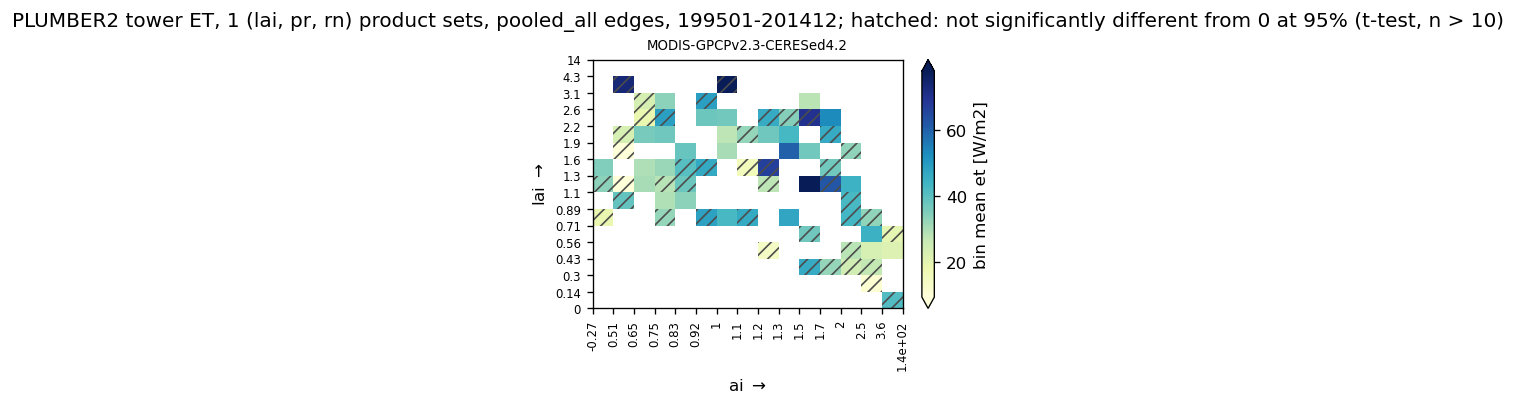
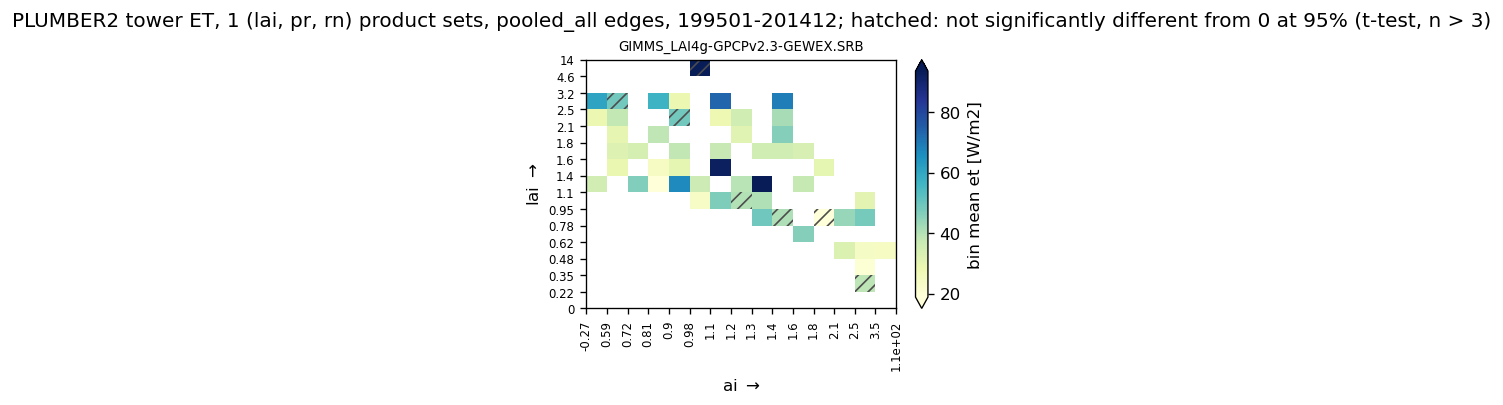
Performed binning analysis on PLUMBER2

Changed region(s): [[0.0, 0.0296, 1.0, 0.7704], [0.3673, 0.8, 0.6121, 0.8593], [0.5815, 0.8593, 0.6121, 0.8889]]

diff --git a/scripts/bin_plumber.py b/scripts/bin_plumber.py
@@ -6,9 +6,12 @@ of bin_all.py, so the towers can be compared bin by bin with the gridded
 families. Needs the obs inputs (prep_obs.py) and the edges and common area
 mask (make_edges.py).
 
-- ET: latent heat flux Qle [W/m2] of each tower's flux file. Each calendar
-  year in TIME_SLICE with every time step valid is one annual mean ET sample,
-  filtered like the gridded ET (step 6: annual ET < MIN_ANNUAL_ET dropped).
+- ET: latent heat flux Qle [W/m2] of each tower's flux file. A calendar year
+  in TIME_SLICE is complete if every time step is valid, and its annual mean
+  is filtered like the gridded ET (step 6: annual ET < MIN_ANNUAL_ET dropped).
+  Only each tower's longest run of consecutive complete years is kept, and
+  towers whose run is shorter than MIN_CONSECUTIVE_YEARS are left out; each
+  year of the run is one annual mean ET sample.
 - LAI, P, Rn, AI: the climatologies of the obs products (prep_obs.py, steps
   10-11) at the gridcell nearest to each tower (`.sel(..., method="nearest")`).
   The obs sources only differ in LAI, P and Rn by their (lai, pr, rn) product
@@ -29,10 +32,10 @@ Outputs
 <period> : YYYYMM-YYYYMM of TIME_SLICE
 
 PROC_ROOT/plumber/plumber.inputs.<grid>.<period>.nc
-    et (member, year), NaN outside a tower's complete years; lai, pr, rn, ai (lai_pr_rn, member).
+    et (member, year), NaN outside a tower's longest run of consecutive complete years; lai, pr, rn, ai (lai_pr_rn, member).
     `member` is the site name, with coords lat/lon (tower), grid_lat/grid_lon (nearest gridcell),
     n_years, time_period and in_common_area; `lai_pr_rn` has coords obs_source, <v>_product,
-    clim_n_years and clim_period
+    clim_n_years and clim_period. Also the input of bin_plumber_clim.py
 PROC_ROOT/plumber/qbin/plumber.et.qbin_<edges>.<grid>.<period>.nc
     (lai_pr_rn, stats, y_bin, x_bin), the samples of all towers pooled
 FIG_ROOT/plumber/qbin/plumber.et.qbin_<edges>.<grid>.<period>.{summary,bin_mean,bin_mean_signif}.png
@@ -41,7 +44,7 @@ FIG_ROOT/plumber/qbin/plumber.et.qbin_<edges>.<grid>.<period>.{summary,bin_mean,
 
 Scatter of the towers
 ---------------------
-Each tower's mean ET over its full record (all complete years, not only TIME_SLICE) against
+Each tower's mean ET over its full record (its longest run of consecutive complete years, not only TIME_SLICE) against
 the climatological LAI and AI of SCATTER_PRODUCTS at its nearest gridcell. The climatology
 covers the years of the longest tower record, so it is computed here from the products
 (steps 1-11 of prep_obs.py) rather than taken from the obs inputs (MODIS LAI ends in 2005).
@@ -49,7 +52,7 @@ covers the years of the longest tower record, so it is computed here from the pr
 <clim_period> : YYYYMM-YYYYMM of the longest tower record
 
 PROC_ROOT/plumber/plumber.tower_clim.<grid>.<clim_period>.nc
-    et, n_years (member): mean annual ET and number of complete years of each tower's record;
+    et, n_years (member): mean annual ET and number of years of each tower's longest run of complete years;
     lai, pr, rn, ai (member): climatology of SCATTER_PRODUCTS at the nearest gridcell
 FIG_ROOT/plumber/plumber.tower_scatter.<grid>.<clim_period>.png
     AI (x) vs LAI (y), colored by tower ET, marker area proportional to the record length
@@ -90,7 +93,10 @@ N_YBINS = cfg.N_YBINS                      # LAI
 N_XBINS = cfg.N_XBINS                      # AI
 EDGE_KINDS = ("pooled_all", "pooled_obs")  # edge sets of make_edges.py
 SIGNIF_ALPHA = cfg.SIGNIF_ALPHA
-SIGNIF_N_MIN = cfg.SIGNIF_N_MIN
+SIGNIF_N_MIN = 3
+
+# Minimum consecutive years for valid tower data
+MIN_CONSECUTIVE_YEARS = 3
 
 # Products of the obs inputs left out of the binned (lai, pr, rn) product sets, by variable
 EXCLUDE_PRODUCTS: dict[str, list[str]] = {}
@@ -118,11 +124,20 @@ def tower_annual_et(path: Path, time_slice: slice) -> tuple[xr.DataArray | None,
     return qle.groupby("time.year").mean().where(complete).assign_attrs(units="W/m2"), lat, lon
 
 
-def load_towers(time_slice: slice) -> tuple[xr.DataArray, xr.DataArray, xr.DataArray]:
+def longest_run(years: np.ndarray) -> np.ndarray:
+    """Years of the longest run of consecutive integers in the sorted `years` (the earliest run on a tie)."""
+    if years.size == 0:
+        return years
+    # Split wherever the step between successive years is not 1
+    runs = np.split(years, np.flatnonzero(np.diff(years) != 1) + 1)
+    return max(runs, key=len)
+
+
+def load_towers(time_slice: slice, min_consecutive: int = MIN_CONSECUTIVE_YEARS) -> tuple[xr.DataArray, xr.DataArray, xr.DataArray]:
     """
-    Annual mean tower ET (member, year) over `time_slice`, NaN outside a tower's complete years, after the
-    ET outlier filter (step 6), and the towers' latitudes and longitudes (member). Towers without a complete
-    year are skipped.
+    Annual mean tower ET (member, year) over `time_slice`, NaN outside a tower's longest run of consecutive
+    complete years (after the ET outlier filter, step 6), and the towers' latitudes and longitudes (member).
+    Towers whose longest run is shorter than `min_consecutive` years are skipped.
     """
     flux_files = sorted((PLUMBER_ROOT / "flux").glob("*.nc"))
     et, lats, lons = [], [], []
@@ -136,11 +151,31 @@ def load_towers(time_slice: slice) -> tuple[xr.DataArray, xr.DataArray, xr.DataA
         lats.append(lat)
         lons.append(lon)
     et = xr.concat(et, dim="member", join="outer").sortby("year")
-    print(f"{et.sizes['member']} of {len(flux_files)} towers have complete years in {time_slice}")
     et = binning.drop_et_outliers(et, cfg.MIN_ANNUAL_ET, label="PLUMBER2 Qle")
     et = et.assign_attrs(long_name="annual mean latent heat flux (Qle) of the flux tower")
     lat = xr.DataArray(lats, dims="member", coords={"member": et["member"]})
     lon = xr.DataArray(lons, dims="member", coords={"member": et["member"]})
+
+    # Keep only each tower's longest run of consecutive complete years, and only towers whose run is at least
+    # `min_consecutive` years. Runs are found on the year values, not positions, since a year with no data
+    # at any tower is missing from `year`
+    years = et["year"].values
+    in_run = xr.DataArray(
+        [np.isin(years, longest_run(years[et.sel(member=m).notnull().values])) for m in et["member"].values],
+        dims=("member", "year"), coords={"member": et["member"], "year": et["year"]},
+    )
+    n_consec = in_run.sum("year")
+    short = n_consec < min_consecutive
+    for m in et["member"].values[short.values]:
+        print(f"{m}: longest run of {int(n_consec.sel(member=m))} consecutive complete years "
+              f"(< {min_consecutive}), skipping")
+    n_out = int((et.notnull() & ~in_run).sel(member=~short).sum())
+    print(f"{n_out} complete tower-years outside the longest runs set to NaN")
+    with xr.set_options(keep_attrs=True):
+        et = et.where(in_run)
+    et, lat, lon = (da.sel(member=~short) for da in (et, lat, lon))
+    print(f"{et.sizes['member']} of {len(flux_files)} towers have >= {min_consecutive} consecutive complete "
+          f"years in {time_slice}")
     return et, lat, lon
 
 
@@ -280,6 +315,7 @@ def main():
         "family": FAMILY, "dataset": "PLUMBER2 flux towers: tower ET, obs LAI/P/Rn/AI at the nearest gridcell",
         "time_period": temporal.period_str(inputs["year"].values), "grid": grid,
         "plumber_root": str(PLUMBER_ROOT), "obs_inputs": str(obs_path), "min_annual_et": cfg.MIN_ANNUAL_ET,
+        "min_consecutive_years": MIN_CONSECUTIVE_YEARS,  # read by bin_plumber_clim.py
     }
     fout = cfg.inputs_path(FAMILY, grid, period)
     fout.parent.mkdir(parents=True, exist_ok=True)

diff --git a/scripts/bin_plumber_clim.py b/scripts/bin_plumber_clim.py
@@ -1,0 +1,140 @@
+"""
+bin_plumber_clim.py
+===================
+Step 14 for the PLUMBER2 flux towers with climatological ET: as
+bin_plumber.py, but each tower's climatological annual mean ET (mean over its
+years) is binned instead of each of its annual means, as bin_all_clim.py does
+for the gridded families. One sample per tower instead of one per
+(year, tower), so every tower weighs equally in its bin, whatever its number
+of years, and the within-bin variance is across towers only (no interannual
+variability).
+
+The towers and their years come from the inputs of bin_plumber.py, so they
+follow the same consecutive-year requirement: only each tower's longest run
+of consecutive complete years in TIME_SLICE (after the ET outlier filter) is
+kept, and towers whose run is shorter than MIN_CONSECUTIVE_YEARS of
+bin_plumber.py (stored in the inputs attrs) are left out. The ET climatology
+is the mean over that run (`temporal.aggregate(et, "clim")`).
+
+LAI and AI are the climatologies of the obs products at the gridcell nearest
+to each tower, separately for each (lai, pr, rn) product set, as in
+bin_plumber.py. The towers are not masked by the common area mask, and a
+tower whose nearest gridcell has no obs data is not binned.
+
+Outputs
+-------
+<edges>  : pooled_all or pooled_obs
+<grid>   : grid tag of TARGET_RES, e.g. "1deg"
+<period> : YYYYMM-YYYYMM of TIME_SLICE
+
+PROC_ROOT/plumber/qbin/plumber.et_clim.qbin_<edges>.<grid>.<period>.nc
+    (lai_pr_rn, stats, y_bin, x_bin), all towers pooled; `count` is the number of towers
+FIG_ROOT/plumber/qbin/plumber.et_clim.qbin_<edges>.<grid>.<period>.{summary,bin_mean,bin_mean_signif}.png
+    as in bin_plumber.py, one panel per product set; bin_mean_signif hatches bins whose mean is not
+    significantly different from 0
+"""
+
+from __future__ import annotations
+
+import matplotlib
+matplotlib.use("Agg")
+import xarray as xr
+
+import etunc.config as cfg
+import etunc.binning as binning
+import etunc.edges as edges
+import etunc.grid as rg
+import etunc.plotting as plotting
+import etunc.temporal as temporal
+
+# ------------------------------------------------------------------
+# Settings
+# ------------------------------------------------------------------
+
+FAMILY = "plumber"
+TIME_SLICE = cfg.TIME_SLICE
+TARGET_RES = cfg.TARGET_RES
+N_YBINS = cfg.N_YBINS                      # LAI
+N_XBINS = cfg.N_XBINS                      # AI
+EDGE_KINDS = ("pooled_all", "pooled_obs")  # edge sets of make_edges.py
+SIGNIF_ALPHA = cfg.SIGNIF_ALPHA
+SIGNIF_N_MIN = 3                           # as in bin_plumber.py
+
+
+# ------------------------------------------------------------------
+# Main
+# ------------------------------------------------------------------
+
+def main():
+    cfg.summarize()
+    cfg.summarize_settings(globals())
+    period = temporal.format_time_period(TIME_SLICE)
+    grid = rg.grid_tag(TARGET_RES)
+
+    # Tower ET and the obs LAI, P, Rn, AI at the nearest gridcell (bin_plumber.py)
+    path = cfg.inputs_path(FAMILY, grid, period)
+    if not path.exists():
+        raise FileNotFoundError(f"No {FAMILY} inputs at {path}; run scripts/bin_plumber.py first")
+    inputs = xr.load_dataset(path)
+    # The consecutive-year requirement of bin_plumber.py; inputs written before it existed must be remade
+    if "min_consecutive_years" not in inputs.attrs:
+        raise ValueError(f"{path} has no consecutive-year requirement; rerun scripts/bin_plumber.py")
+    min_consecutive = int(inputs.attrs["min_consecutive_years"])
+    n_towers = inputs.sizes["member"]
+    print(f"{n_towers} towers with >= {min_consecutive} consecutive complete years in {inputs.attrs['time_period']}, "
+          f"{int(inputs['n_years'].min())} to {int(inputs['n_years'].max())} years per tower")
+
+    # Climatological ET of each tower: (member, year) -> (member), the mean over its longest run of complete years
+    et_clim = temporal.aggregate(inputs["et"], "clim", label="PLUMBER2 Qle")
+
+    # ------------------------------------------------------------------
+    # 14. Every tower's climatological ET binned by the tower's climatological LAI and AI, per product set
+    # ------------------------------------------------------------------
+    for kind in EDGE_KINDS:
+        print(f"\n=== {kind} edges ===")
+        y_edges = edges.load_bin_edges(kind, "lai", N_YBINS, grid, period)
+        x_edges = edges.load_bin_edges(kind, "ai", N_XBINS, grid, period)
+        bs = binning.bin_stats(
+            et_clim, inputs["lai"], inputs["ai"], y_edges, x_edges,
+            member_dim="lai_pr_rn", y_name="lai", x_name="ai", name="et",
+            attrs={
+                "family": FAMILY, "edges": kind, "time_period": inputs.attrs["time_period"], "grid": grid,
+                "n_towers": n_towers, "min_consecutive_years": min_consecutive, "plumber_inputs": str(path),
+                "et_samples": "climatological annual mean ET, one sample per tower",
+            },
+        )
+        # bin_stats keeps only the coords of `et` along the member dim, so add those of the product sets
+        bs = bs.assign_coords({c: inputs[c] for c in inputs.coords if inputs[c].dims == ("lai_pr_rn",)})
+        stem = f"{FAMILY}.et_clim.qbin_{kind}.{grid}.{period}"
+        fout = cfg.PROC_ROOT / FAMILY / "qbin" / f"{stem}.nc"
+        fout.parent.mkdir(parents=True, exist_ok=True)
+        bs.to_netcdf(fout)
+        count = bs.sel(stats="count").sum(("y_bin", "x_bin"))
+        for key in bs["lai_pr_rn"].values:
+            n_bins = int((bs.sel(lai_pr_rn=key, stats="count") > 0).sum())
+            print(f"{key}: {int(count.sel(lai_pr_rn=key))} towers binned in {n_bins} bins")
+        print(fout)
+
+        # Figures as in bin_plumber.py, one panel per product set; every set shares the edges, so the
+        # zero-width bins can be dropped
+        n_sets = bs.sizes["lai_pr_rn"]
+        title = (f"PLUMBER2 tower climatological ET, {n_sets} (lai, pr, rn) product sets, {kind} edges, "
+                 f"{inputs.attrs['time_period']}")
+        bs = binning.drop_zero_width_bins(bs)
+        fig_dir = cfg.FIG_ROOT / FAMILY / "qbin"
+        plotting.plot_bin_summary(bs, dim="lai_pr_rn", title=title, fout=fig_dir / f"{stem}.summary.png")
+        plotting.plot_bin_means(bs, "lai_pr_rn", title=f"{title}, bin mean", fout=fig_dir / f"{stem}.bin_mean.png")
+        # Hatch non-empty bins whose mean is not significantly different from 0 (towers as independent samples)
+        signif = binning.test_significance(bs, alpha=SIGNIF_ALPHA, n_min=SIGNIF_N_MIN)
+        not_signif = ~signif & bs.sel(stats="mean").notnull()
+        plotting.plot_bin_means(
+            bs, "lai_pr_rn", hatch=not_signif, fout=fig_dir / f"{stem}.bin_mean_signif.png",
+            title=(f"{title}; hatched: not significantly different from 0 at {1 - SIGNIF_ALPHA:.0%} "
+                   f"(t-test, n > {SIGNIF_N_MIN})"),
+        )
+        for suffix in ("summary", "bin_mean", "bin_mean_signif"):
+            print(fig_dir / f"{stem}.{suffix}.png")
+
+
+if __name__ == "__main__":
+    main()

diff --git a/etunc/config.py b/etunc/config.py
@@ -49,8 +49,8 @@ CMIP_FX_CATALOG = CMIP_CATALOG_ROOT / "cmip6_fx_glade.csv"  # one sftlf file per
 PROJ_ROOT = Path("/glade/u/home/bbuchovecky/projects/et_unc")
 FIG_ROOT = PROJ_ROOT / "fig"
 
-WORK_ROOT = Path("/glade/derecho/scratch/bbuchovecky/et_unc")
-# WORK_ROOT = Path("/glade/work/bbuchovecky/et_unc")
+# WORK_ROOT = Path("/glade/derecho/scratch/bbuchovecky/et_unc")
+WORK_ROOT = Path("/glade/work/bbuchovecky/et_unc")
 PROC_ROOT = WORK_ROOT / "proc"
 BIN_EDGES_ROOT = PROC_ROOT / "qbin_edges"
 

diff --git a/docs/binning-workflow.md b/docs/binning-workflow.md
@@ -9,6 +9,8 @@ make_edges.py                                           steps 12-13  -> common a
 bin_all.py                                              step 14      -> binned ET of every family
 bin_all_clim.py                                         step 14      -> binned climatological ET of every family
 bin_plumber.py                                          step 14      -> binned ET of the PLUMBER2 flux towers
+bin_plumber_clim.py                                     step 14      -> binned climatological ET of the PLUMBER2 flux towers
+regress_lai_aridity.py                                  after 14     -> ET variance explained by LAI and AI (OLS)
 ```
 Run them in that order.
 Every script prints `etunc/config.py` and its own settings into its log (`scripts/run_logged.sh`).
@@ -75,7 +77,11 @@ Every script prints `etunc/config.py` and its own settings into its log (`script
 
 `bin_all_clim.py`: step 14 with climatological ET. Each member's annual mean ET is averaged over `year` with the step 10 rule (`temporal.aggregate(et, "clim")`: every year weighs equally, a gridcell's NaN years are skipped), then binned as in `bin_all.py`. Each gridcell is one sample, so every gridcell weighs equally in its bin whatever its number of valid ET years, and the within-bin variance is spatial only. Outputs are named `<family>.et_clim.qbin_*`.
 
-`bin_plumber.py`: step 14 for the PLUMBER2 flux towers (`cfg.PLUMBER_ROOT`). Each complete tower year of Qle in `TIME_SLICE` is one annual mean ET sample, binned by the climatological obs LAI and AI (from the obs inputs) at the gridcell nearest to the tower, once per (LAI, P, Rn) product set, with the `pooled_all` and `pooled_obs` edges. Towers are not masked by the common area mask; towers whose nearest gridcell has no obs data are not binned. It also plots each tower's record-mean ET against the climatological LAI and AI of `SCATTER_PRODUCTS` (GIMMS_LAI4g, GPCPv2.3, GEWEX.SRB Rn) over the years of the longest tower record, computed from the products with steps 1-11.
+`bin_plumber.py`: step 14 for the PLUMBER2 flux towers (`cfg.PLUMBER_ROOT`). Only each tower's longest run of consecutive complete years of Qle in `TIME_SLICE` (after the ET outlier filter) is kept, and towers whose run is shorter than `MIN_CONSECUTIVE_YEARS` are left out. Each year of the run is one annual mean ET sample, binned by the climatological obs LAI and AI (from the obs inputs) at the gridcell nearest to the tower, once per (LAI, P, Rn) product set, with the `pooled_all` and `pooled_obs` edges. Towers are not masked by the common area mask; towers whose nearest gridcell has no obs data are not binned. It also plots each tower's record-mean ET against the climatological LAI and AI of `SCATTER_PRODUCTS` (GIMMS_LAI4g, GPCPv2.3, GEWEX.SRB Rn) over the years of the longest tower record, computed from the products with steps 1-11.
+
+`bin_plumber_clim.py`: `bin_plumber.py` with climatological ET, as `bin_all_clim.py`. It reads the PLUMBER2 inputs of `bin_plumber.py`, so the towers and years follow the same consecutive-year requirement (`min_consecutive_years` in the inputs attrs). Each tower's ET is averaged over its run (`temporal.aggregate(et, "clim")`), so each tower is one sample and weighs equally in its bin. Outputs are named `plumber.et_clim.qbin_*`.
+
+`regress_lai_aridity.py`: how much of the ET variance in the heatmaps climatological LAI and AI explain. Per member, on exactly the samples of `bin_all.py` (annual) and `bin_all_clim.py` (clim), on the common area and unweighted: OLS fits ET ~ LAI, ET ~ AI and ET ~ LAI + AI (`regression.lai_ai_regression`), the partition of R² into unique LAI, unique AI and shared parts (LAI and AI are correlated), and for comparison the fraction of variance explained by the bin means (η², `binning.between_bin_fraction`) with the `pooled_all` and `pooled_<family>` edges. Climatological predictors cannot explain interannual variability, so the annual R² is at most the between-gridcell share of the variance. Outputs: `PROC_ROOT/<family>/regress/<family>.et.regress_lai_ai.*.nc` and `FIG_ROOT/all/all.et.regress_lai_ai.*.png`.
 
 **TODO:** For testing the sensitivity to resolution, keep model output at native resolution by skipping step 7 (needs the common area mask on each native grid).
 
@@ -127,6 +133,11 @@ pool_by_source()                         # members of each source pooled
 drop_zero_width_bins()
 frac_valid()
 test_significance()
+between_bin_fraction()                   # eta2: variance explained by the bin means
 et_product_spread()                      # obs: std of the bin mean across ET products
+
+regression.py:
+ols()                                    # OLS with an intercept: coefficients and R2
+lai_ai_regression()                      # per member, ET ~ LAI, ~ AI, ~ LAI + AI, and the R2 partition
 ```
 Code that the pipeline no longer uses is in `etunc/legacy/` (unmaintained, untested).
